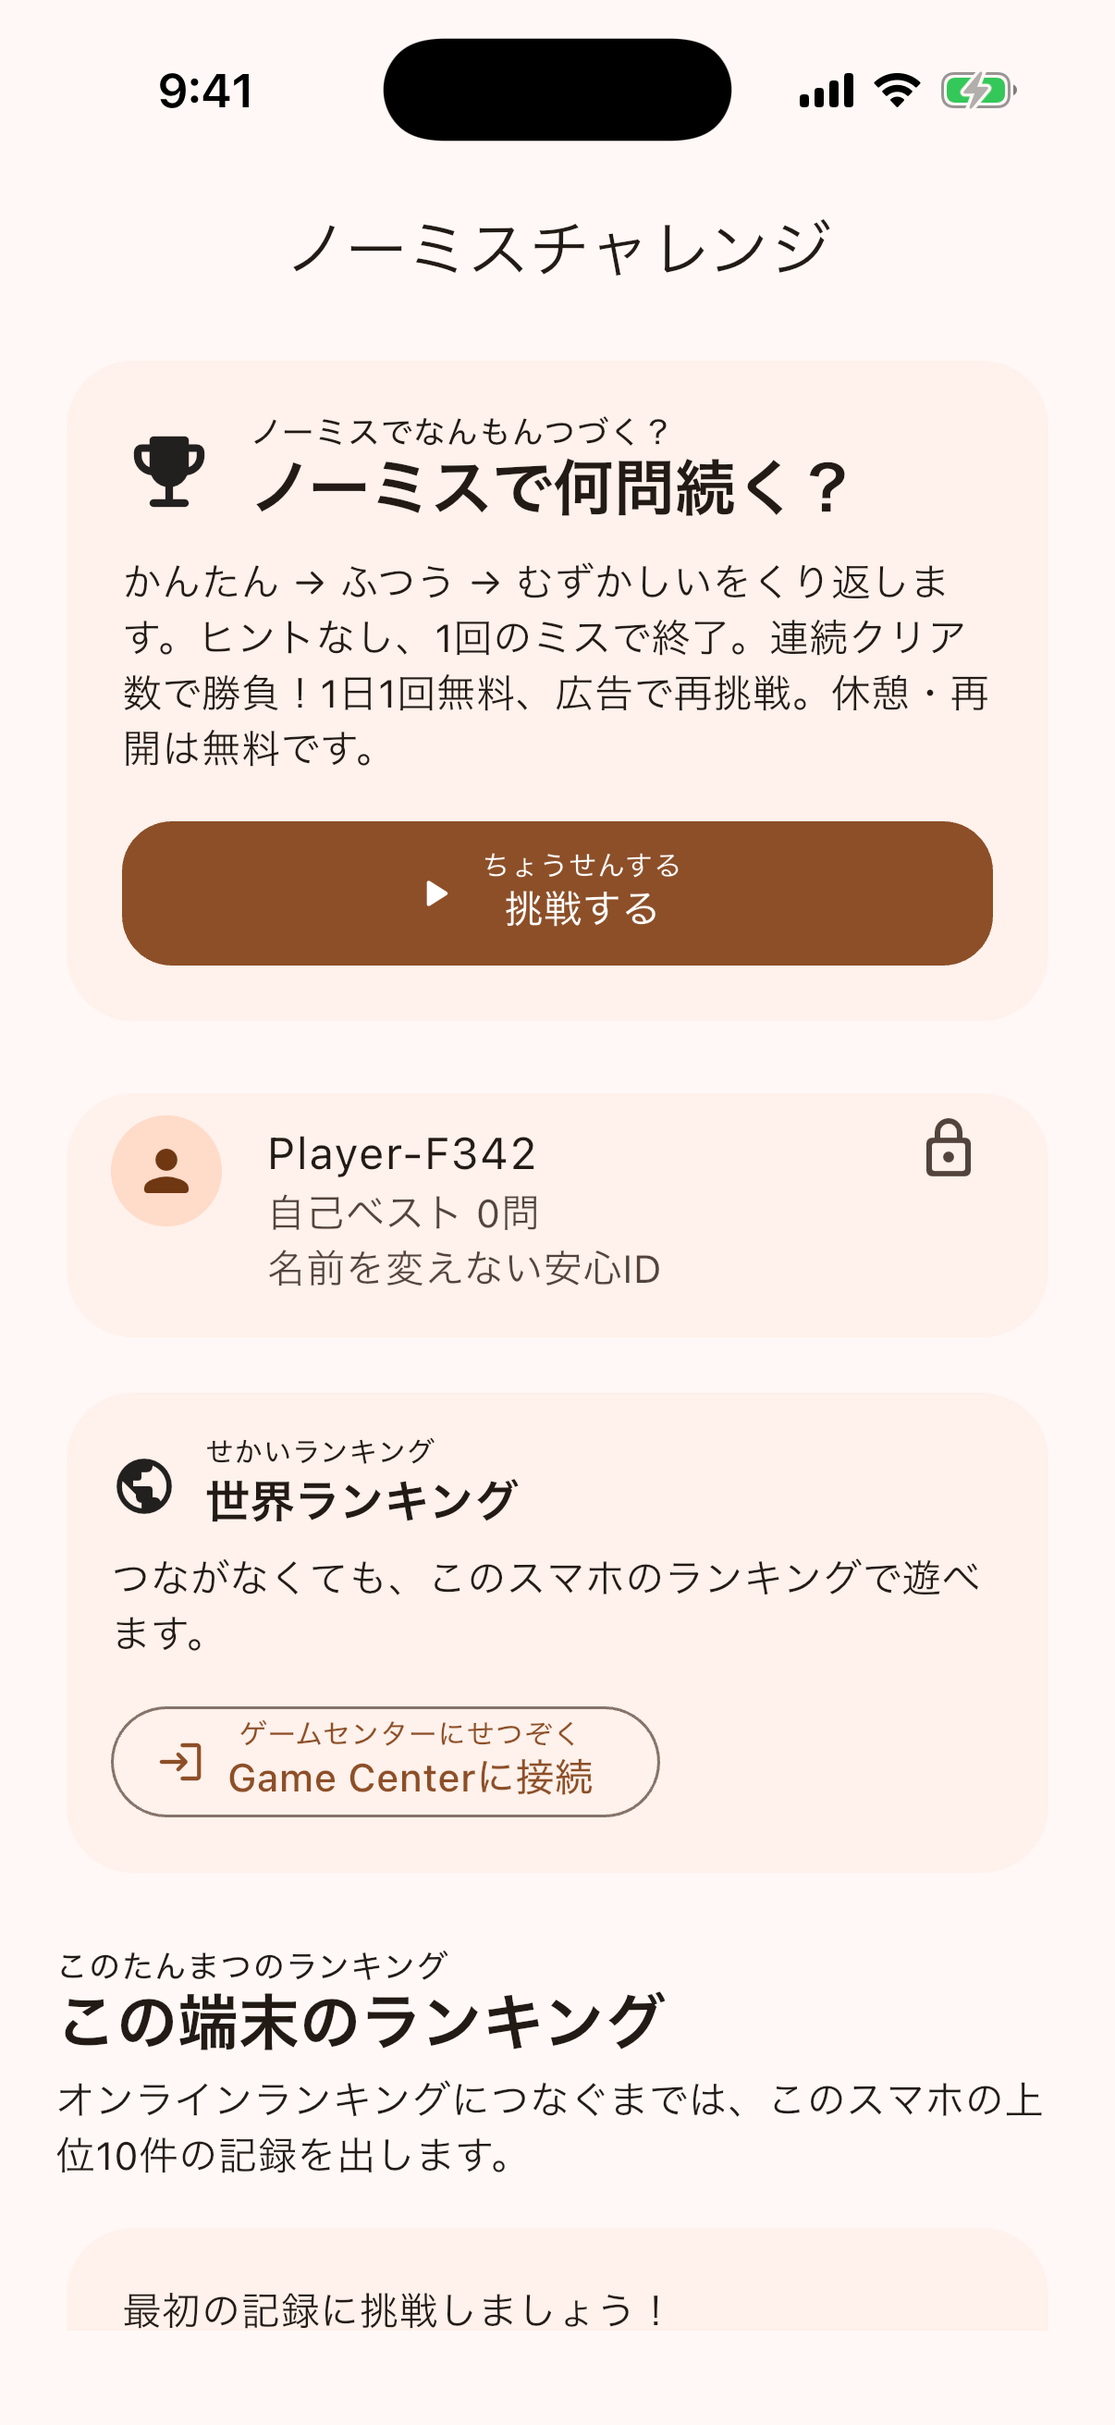
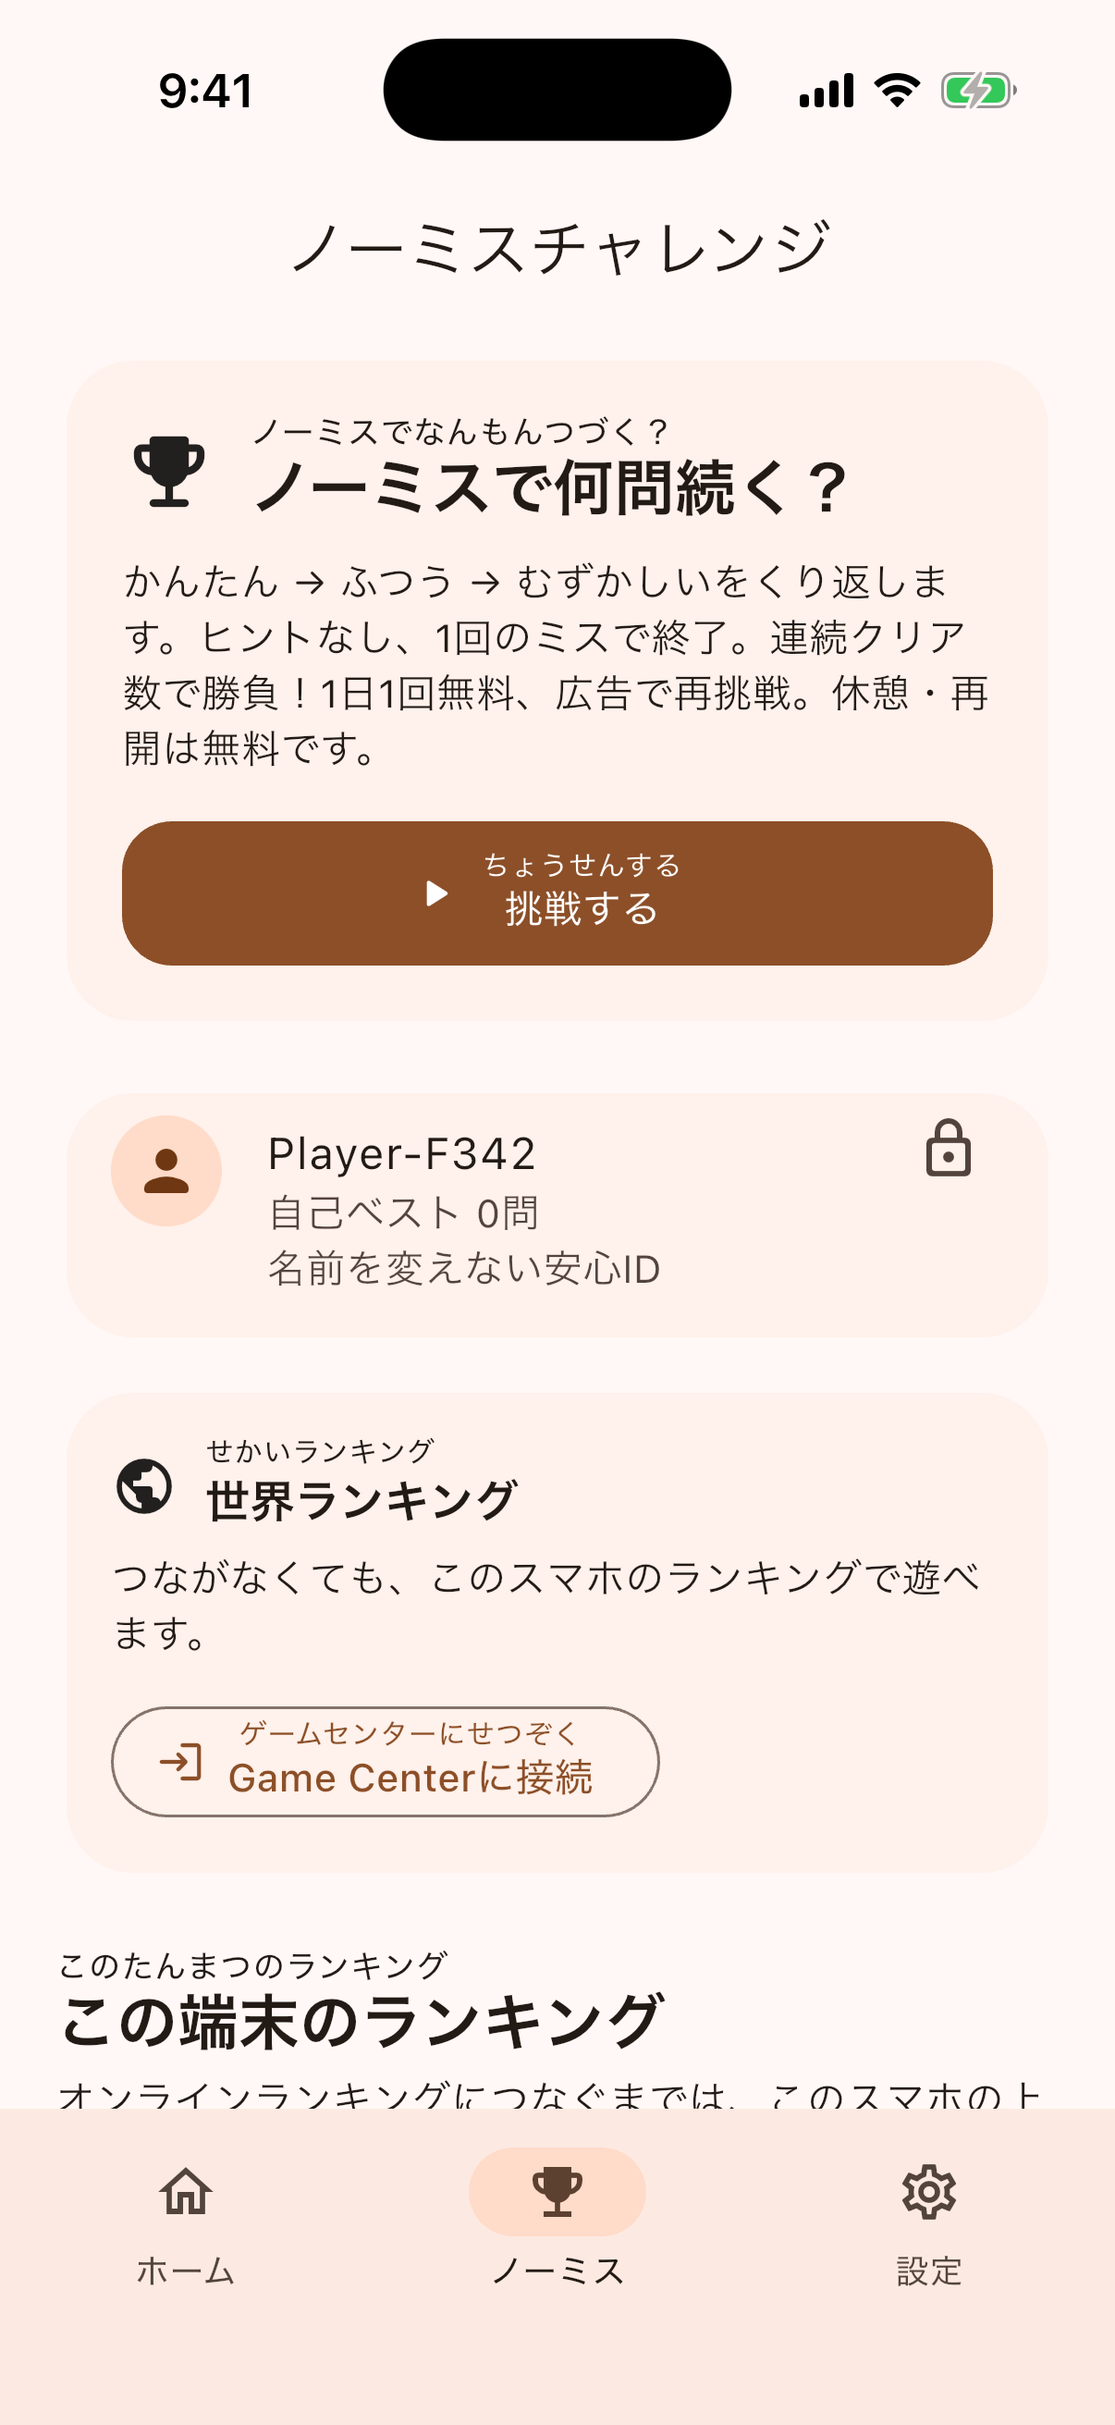
Update Sudoku daily continuation, saves and color guide

diff --git a/hanamarusudoku/index.html b/hanamarusudoku/index.html
@@ -24,17 +24,18 @@
 <article><h3>② 数字を置く</h3><p>下の数字をタップ。たて・よこ・太い線の中で、同じ数字が重ならないように置きます。</p></article>
 <article><h3>③ 練習ではヒントも</h3><p>練習・今日のチャレンジは1問3回無料。ノーミスチャレンジでは使えません。まずは4×4の練習からどうぞ。</p></article>
 </div></div></section>
-<section class="section"><div class="container"><h2>ノーミスで、自分の限界に挑戦。</h2><p>かんたん（4×4）→ふつう（6×6）→むずかしい（9×9）をくり返します。ヒントなし、最初の間違いで終了。何問連続でクリアできるかを競い、端末内の上位10件に記録します。</p><h3>世界ランキングはGame Centerで</h3><p>接続は任意です。接続中に挑戦を終了すると、記録がAppleに送られ、世界ランキングにはGame Centerの名前が表示されます。端末内の匿名IDとは別です。</p><h3>休憩して、続きから</h3><p>ノーミス挑戦は途中で保存できます。アプリを閉じても同じ盤面・連続クリア数から無料で再開。休憩中のスコアは送信しません。</p><h3>気軽に練習、毎日はなまる</h3><p>練習はかんたん・ふつう・むずかしいを選べ、何回間違えても終了しません。今日のチャレンジは1問3ミスで終了し、クリアで1日3つまではなまるを集められます。</p></div></section>
+<section class="section"><div class="container"><h2>ノーミスで、自分の限界に挑戦。</h2><p>かんたん（4×4）→ふつう（6×6）→むずかしい（9×9）をくり返します。ヒントなし、最初の間違いで終了。何問連続でクリアできるかを競い、端末内の上位10件に記録します。</p><h3>世界ランキングはGame Centerで</h3><p>接続は任意です。接続中に挑戦を終了すると、記録がAppleに送られ、世界ランキングにはGame Centerの名前が表示されます。端末内の匿名IDとは別です。</p><h3>休憩して、続きから</h3><p>ノーミス挑戦は途中で保存できます。アプリを閉じても同じ盤面・連続クリア数から無料で再開。休憩中のスコアは送信しません。</p><h3>気軽に練習、毎日はなまる</h3><p>練習はかんたん・ふつう・むずかしいを選べ、何回間違えても終了しません。今日のチャレンジは3ミスでいったん中断。任意の広告1回で、同じ問題にさらに3ミスまで挑戦できます。クリアで1日3つまではなまるを集められます。ノーミスは1ミスで終了し、広告での復活はありません。</p></div></section>
 <section class="section" id="support"><div class="container"><h2>サポート・よくある質問</h2><div class="help-box">
-<h3>無料でどこまで遊べますか？</h3><p>毎日、ノーミス1回・練習5回・今日のチャレンジ3回を無料で開始できます。広告1回でプレイ1回を追加。練習・ノーミスの追加回数に上限はなく、今日の追加広告は1日3回まで。ヒントは1問3回無料、広告1回で3回追加（広告は1問2回まで）です。広告は自分で選んだ時だけ表示し、自動では出ません。公開準備中のテスト版はテスト広告で、本番の配信設定は確認中です。</p>
-<h3>途中の問題は保存されますか？</h3><p>ノーミス挑戦は途中の盤面も保存・再開できます。通常の練習・今日のチャレンジには途中保存はありません。クリア履歴・はなまる・記録は端末内保存で、端末間の進捗同期はありません。</p>
+<h3>無料でどこまで遊べますか？</h3><p>毎日、ノーミス1回・練習5回・今日のチャレンジ3回を無料で開始できます。広告1回でプレイ1回を追加。練習・ノーミスの追加回数に上限はなく、今日の新しい問題を追加する広告は1日3回まで。同じ問題の3ミス後の続行広告には回数制限はありません。ヒントは1問3回無料、広告1回で3回追加（広告は1問2回まで）です。広告は自分で選んだ時だけ表示し、自動では出ません。公開準備中のテスト版はテスト広告で、本番の配信設定は確認中です。</p>
+<h3>途中の問題は保存されますか？</h3><p>ノーミス挑戦と今日のチャレンジは途中の盤面も保存・無料再開できます。今日のチャレンジは日付が変わっても開始した日のはなまるとして記録され、休憩ではミス回数は回復しません。練習には途中保存はありません。クリア履歴・はなまる・記録は端末内保存で、端末間の進捗同期はありません。</p>
+<h3>盤面の色を変えられますか？</h3><p>累計はなまる3個ごとに、青・緑・桃・紫・金の色が順に解放されます。練習のはなまるも対象です。「設定」で選べ、広告や購入は不要です。下のホーム・ノーミス・設定タブで画面を切り替えられます。</p>
 <h3>広告をなくせますか？</h3><p>任意の買い切りでノーミス挑戦し放題、練習・毎日の広告なし、全部入りを選べます。個別購入後の追加アップグレードと購入復元に対応。月額料金はありません。価格は購入画面で確認してください。毎日はなまる3つ・1問のヒント最大9回・ノーミスのヒントなしは変わりません。購入機能は現在テスト中です。</p><h3>Game Centerを使わなくても遊べますか？</h3><p>はい。通常のナンプレと端末内ランキングは、Game Centerに接続しなくても利用できます。世界ランキングは通信とAppleのGame Centerアカウントが必要です。</p>
 <h3>データを削除したいときは？</h3><p>端末内のデータはアプリを削除すると削除されます。バックアップの扱いはiOSの設定に従います。Apple側のGame Centerデータについては、Appleの設定・サポートをご確認ください。</p>
 <h3>お問い合わせ</h3><p>不具合・ご意見・プライバシーに関するお問い合わせは、<a href="mailto:minnanosakusenboard@gmail.com?subject=Hanamaru%20Sudoku%20Support">minnanosakusenboard@gmail.com</a>へ。「はなまるすうどく」と、端末・iOS・アプリのバージョンを添えてください。パスワード、年齢、住所などは送らないでください。</p>
 </div><div class="links"><a href="./privacy/">プライバシーポリシーを読む</a></div></div></section>
-<section class="section" id="english" lang="en"><div class="container"><h2>Hanamaru Sudoku — Support</h2><p>No mistakes. How far can you go? Cycle Easy → Normal → Hard without hints; your first mistake ends the run. Compete on consecutive clears, with optional Game Center world rankings. The leaderboard shows your Game Center name, not your local anonymous ID. Pause, close the app and resume the same board for free; paused scores are not submitted.</p><p>Daily free starts: 1 ranked run, 5 practice puzzles and 3 daily attempts. Practice allows unlimited mistakes; three mistakes end a daily puzzle. Earn up to 3 daily stamps. Finish an optional ad for one extra start (daily extra ads: up to 3 a day; practice/ranked extras: no limit). Regular puzzles have 3 free hints; an ad adds 3, up to twice per puzzle. No automatic ads. Optional one-time packs remove ads for ranked runs, regular play, or both, with upgrades and purchase restoration. Limits of 3 daily stamps and 9 hints per puzzle remain. Test builds use test ads; production ads and purchases are being verified. Regular unfinished boards and cross-device progress sync are not supported.</p><p>Contact: <a href="mailto:minnanosakusenboard@gmail.com">minnanosakusenboard@gmail.com</a> · <a href="./privacy/#en">Privacy policy</a></p></div></section>
-<section class="section" id="chinese" lang="zh-Hans"><div class="container"><h2>花丸数独 — 支持</h2><p>一次不出错，能连续过几关？无提示，简单→普通→困难循环，首次失误即结束，以连续通关数排名。可选Game Center世界排行榜，显示Game Center名称而非本机匿名ID。可暂停并关闭应用，免费从同一棋盘继续，暂停成绩不提交。</p><p>每天免费开始排行1次、练习5次、每日挑战3次。练习答错不结束；每日挑战每题错3次即结束，每天最多3个花丸。主动观看一次广告追加游玩1次（每日额外广告最多3次，练习与排行追加不限次数）。普通题目免费提示3次，广告追加3次，每题最多2次广告。不自动显示广告。可选一次性购买排行不限次数、普通模式免广告或全部解锁，支持升级及恢复购买；花丸3个、每题提示9次上限不变。目前测试版使用测试广告，正式广告与购买功能正在确认。普通棋盘不支持中途保存或跨设备进度同步。</p><p>Contact: <a href="mailto:minnanosakusenboard@gmail.com">minnanosakusenboard@gmail.com</a> · <a href="./privacy/#zh">Privacy policy</a></p></div></section>
-<section class="section" id="korean" lang="ko"><div class="container"><h2>하나마루 스도쿠 — 지원</h2><p>실수 없이, 몇 문제까지? 힌트 없이 쉬움→보통→어려움을 반복하며 한 번 틀리면 종료됩니다. 연속 성공 수로 겨루고 선택적으로 Game Center 세계 순위에 참여하세요. 순위에는 기기 익명 ID가 아닌 Game Center 이름이 나옵니다. 저장하고 앱을 닫아도 같은 보드에서 무료로 이어 할 수 있으며 쉬는 점수는 제출하지 않습니다.</p><p>매일 순위 1회, 연습 5회, 오늘의 도전 3회를 무료로 시작합니다. 연습은 틀려도 끝나지 않으며 오늘의 도전은 문제당 3번 틀리면 종료, 하루 도장 3개까지입니다. 선택한 광고 1회로 플레이 1회를 추가합니다(오늘의 추가 광고는 하루 최대 3회, 연습·순위 추가 제한 없음). 일반 문제 힌트는 무료 3회, 광고로 3회 추가, 문제당 광고 최대 2회입니다. 자동 광고는 없습니다. 선택적 일회성 구매로 순위 무제한, 일반 모드 광고 제거 또는 모두를 제공하며 업그레이드와 복원을 지원합니다. 도장 3개·힌트 9회 상한은 유지됩니다. 테스트 광고를 사용 중이며 실제 광고와 구매를 확인 중입니다. 일반 문제 중간 저장과 기기 간 진행 동기화는 없습니다.</p><p>Contact: <a href="mailto:minnanosakusenboard@gmail.com">minnanosakusenboard@gmail.com</a> · <a href="./privacy/#ko">Privacy policy</a></p></div></section>
+<section class="section" id="english" lang="en"><div class="container"><h2>Hanamaru Sudoku — Support</h2><p>No mistakes. How far can you go? Cycle Easy → Normal → Hard without hints; your first mistake ends the run. Compete on consecutive clears, with optional Game Center world rankings. The leaderboard shows your Game Center name, not your local anonymous ID. Pause, close the app and resume the same board for free; paused scores are not submitted.</p><p>Practice never ends for mistakes and has 5 free starts a day. Daily Challenge has 3 free starts. After 3 mistakes, one optional ad lets you continue the same puzzle with 3 more chances. Collect up to 3 daily stamps. Both modes include 3 free hints per puzzle. Daily and no-mistake runs can be paused and resumed for free. Ranked runs end on the first mistake and cannot be revived. Ads only appear when you choose them. Every 3 total stamps unlock a board color in Settings.</p><p>Optional one-time purchases unlock unlimited ranked runs, ad-free practice and daily play, or both. A separate upgrade is available after buying one pack. See the purchase screen for prices and restore purchases there. Daily stamps stay capped at 3, hints at 9 per puzzle, and ranked runs have no hints.</p><p>One optional ad adds one new start: practice and ranked extras have no limit; extra daily starts are capped at 3 ads per day. Ads to continue the same daily puzzle after mistakes have no count limit. An ad adds 3 hints, up to twice per puzzle. Unfinished practice boards and cross-device progress sync are not supported. Test builds use test ads; production ads and purchases are being verified.</p><p>Contact: <a href="mailto:minnanosakusenboard@gmail.com">minnanosakusenboard@gmail.com</a> · <a href="./privacy/#en">Privacy policy</a></p></div></section>
+<section class="section" id="chinese" lang="zh-Hans"><div class="container"><h2>花丸数独 — 支持</h2><p>一次不出错，能连续过几关？无提示，简单→普通→困难循环，首次失误即结束，以连续通关数排名。可选Game Center世界排行榜，显示Game Center名称而非本机匿名ID。可暂停并关闭应用，免费从同一棋盘继续，暂停成绩不提交。</p><p>练习答错也不结束，每天免费5次。每日挑战每天免费3次；错3次后暂停，主动看一次广告可继续同一道题并获得3次机会。每天最多收集3个花丸，两种模式每题均有3次免费提示。每日挑战与无失误挑战可保存并免费继续。排行挑战错一次即结束，不能复活。广告仅在主动选择时显示。累计每3个花丸解锁一种棋盘颜色，可在设置中更换。</p><p>可选一次性购买：排行挑战不限次数、练习与每日挑战免广告，或全部解锁。购买一个单独组合后可另行升级。价格与恢复购买在购买页面查看。每天最多3个花丸，每题最多9次提示，排行挑战始终无提示。</p><p>主动观看一次广告可开始1次新游戏：练习与排行追加不限次数，每日挑战新题追加广告每天最多3次。同一道每日题目失误后的继续广告次数不限。每次广告追加3次提示，每题最多2次。练习不支持中途保存，不支持跨设备进度同步。测试版使用测试广告，正式广告与购买功能正在确认。</p><p>Contact: <a href="mailto:minnanosakusenboard@gmail.com">minnanosakusenboard@gmail.com</a> · <a href="./privacy/#zh">Privacy policy</a></p></div></section>
+<section class="section" id="korean" lang="ko"><div class="container"><h2>하나마루 스도쿠 — 지원</h2><p>실수 없이, 몇 문제까지? 힌트 없이 쉬움→보통→어려움을 반복하며 한 번 틀리면 종료됩니다. 연속 성공 수로 겨루고 선택적으로 Game Center 세계 순위에 참여하세요. 순위에는 기기 익명 ID가 아닌 Game Center 이름이 나옵니다. 저장하고 앱을 닫아도 같은 보드에서 무료로 이어 할 수 있으며 쉬는 점수는 제출하지 않습니다.</p><p>연습은 틀려도 끝나지 않고 하루 5회 무료입니다. 오늘의 도전은 하루 3회 무료이며 3번 틀리면 멈춥니다. 원할 때 광고 1회를 보면 같은 문제에서 기회 3회를 더 받을 수 있어요. 하루 도장 최대 3개, 두 모드 모두 문제당 무료 힌트 3회입니다. 오늘의 도전과 노미스 도전은 저장 후 무료로 이어 할 수 있어요. 순위 도전은 한 번 틀리면 끝나고 부활할 수 없습니다. 광고는 선택할 때만 나옵니다. 누적 도장 3개마다 보드 색상이 열리며 설정에서 바꿀 수 있어요.</p><p>월정액이 아닌 일회성 구매로 순위 도전 무제한, 연습·오늘의 도전 광고 제거, 또는 모두를 선택할 수 있어요. 하나를 구매한 뒤 추가 업그레이드도 가능합니다. 가격과 구매 복원은 구매 화면에서 확인하세요. 하루 도장 3개, 문제당 힌트 최대 9회, 순위 도전의 힌트 없음은 유지됩니다.</p><p>선택한 광고 1회로 새 플레이 1회를 추가합니다. 연습·순위 추가는 제한이 없고 오늘의 새 문제 추가 광고는 하루 최대 3회입니다. 같은 오늘의 문제에서 실수 후 이어 하는 광고는 횟수 제한이 없습니다. 광고당 힌트 3회 추가, 문제당 최대 2회입니다. 연습 중간 저장과 기기 간 동기화는 없습니다. 테스트 광고를 사용 중이며 실제 광고와 구매를 확인 중입니다.</p><p>Contact: <a href="mailto:minnanosakusenboard@gmail.com">minnanosakusenboard@gmail.com</a> · <a href="./privacy/#ko">Privacy policy</a></p></div></section>
 </main>
 <footer class="site-footer"><div class="container footer-inner"><div><p class="footer-brand">はなまるすうどく</p><p>運営者：Santarow</p></div><div><a href="./privacy/">プライバシーポリシー</a> · <a href="../">アプリ一覧</a><p>© 2026 Santarow</p></div></div></footer>
 </body></html>
